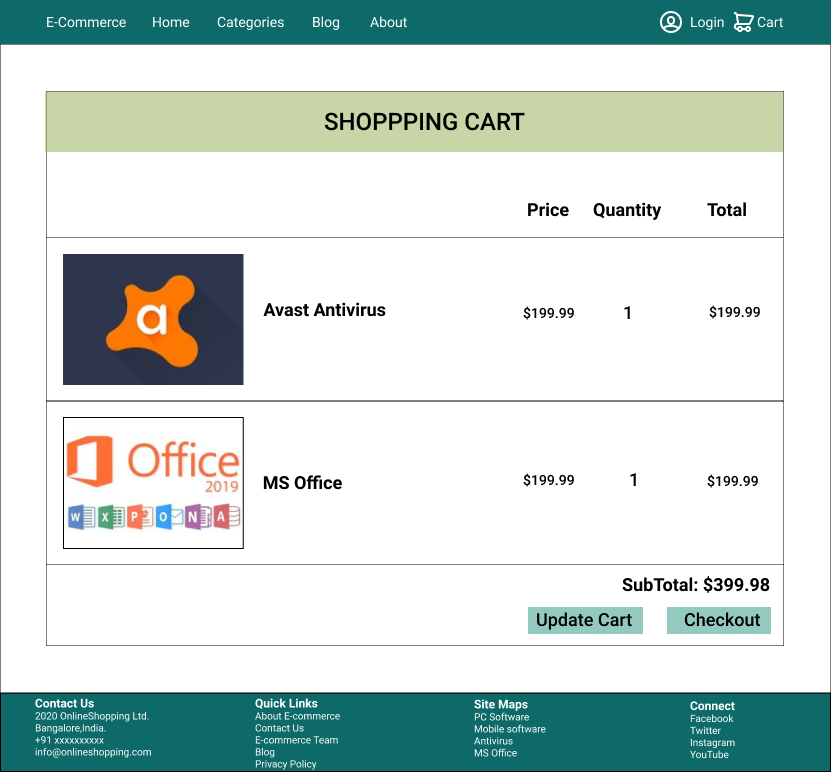
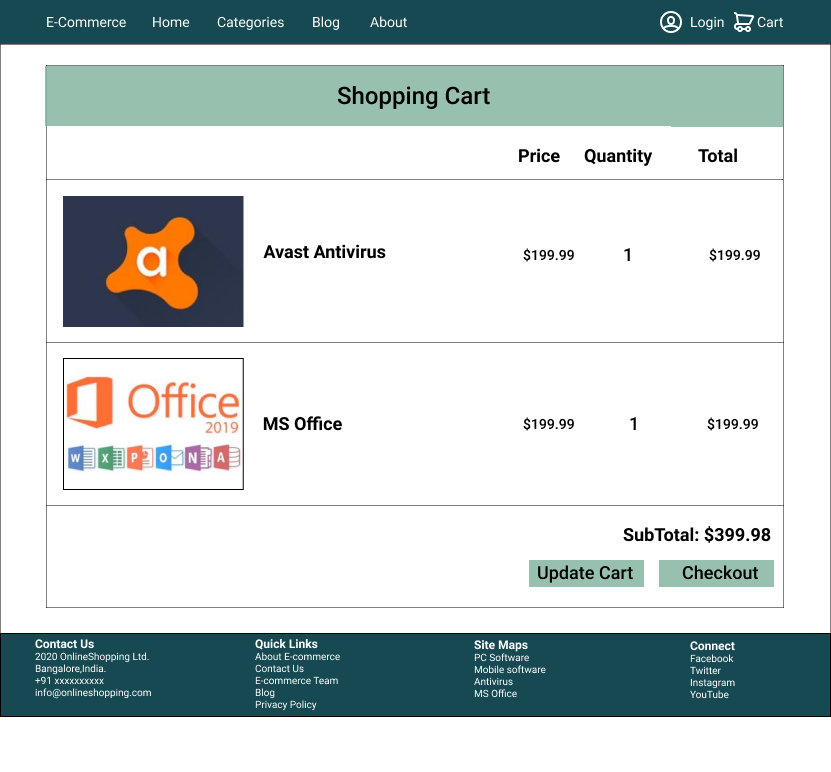
styles modified for homePage and layouts has been added

diff --git a/style/style.css b/style/style.css
@@ -1,8 +1,7 @@
 :root { /* root says this variable is globally valid for all*/
-    --headerFooterColor: #0E6969; /* "--var_name : value" is format for declaring the CSS variable*/
-    --jumbatronColor :  #b8d62a63; /*rgba(184, 143, 64, 0.42);*/
-    --elementsColor: #b5e1e7be;
-    --buttonColor: rgba(144, 135, 85, 0.42);
+    --headerFooterColor: #164951; /* "--var_name : value" is format for declaring the CSS variable*/
+    --elementsColor: #c7dee0bd;
+    --buttonColor: #86b5a185; /* rgba(144, 135, 85, 0.42);*/
   }
 
 
@@ -11,7 +10,7 @@ body { /* this css is applicable for whole body */
     line-height: 1.8; 
 }
 
-.customPageHeaderFooter {
+.customPageHeaderFooter { /* Contains properties common for header and footer */
     background-color: var(--headerFooterColor); /* old color #760f27;*/
     font-family: Montserrat, sans-serif; 
     font-size: 14px;
@@ -34,10 +33,9 @@ li>a:hover
     color: white !important;
 }
 
-.jumbotron{
-    /*background-color: #009e73;*/
-    background-color: var(--jumbatronColor) ;
-    font-family: Montserrat, sans-serif;        
+.jumbotron{   
+    font-family: Montserrat, sans-serif;   
+    background-image: linear-gradient(-4deg, rgba(195, 227, 124, 0.99), rgba(86, 138, 127, 0.49));   
 } 
 
 #inputSearch::placeholder {
@@ -73,21 +71,22 @@ li>a:hover
 }
 
 .moreDetails:hover{
-    background-color: white;
+    background-color: #b9d1c685;
     color:black;
 }
 
 .cart:hover{
-   background-color: var(--buttonColor);
+   background-color: #b9d1c685;
    color:black;
 }
 
 .cart{
-    background-color: white;
-    font-size: 14px !important;
+    background-color: var(--buttonColor);
+    color:black;
+    font-size: 13px !important;
 }
 
-section>a{
+section>a, section>u, section>span, section>i{
     color: white !important;  
 }
 

diff --git a/homePage.html b/homePage.html
@@ -124,7 +124,7 @@
                 <div class="card h-100 shadow">
                     <img src="images/ms-office.png" class="card-img-top" alt="MS Office 2016">
                     <div class="card-body">
-                        <h5 class="card-title">MS Office(v2)</h5>
+                        <h5 class="card-title">MS Office</h5>
                         <p class="card-text">MS Office provides you with the bundles of Word, Excel, Powerpoint...
                         </p>
                         <div class="row">
@@ -207,7 +207,7 @@
                 <div class="card h-100 shadow">
                     <img src="images/adobe-xd.png" class="card-img-top" alt="AdobeXd">
                     <div class="card-body">
-                        <h5 class="card-title">Adobe XD(v2)</h5>
+                        <h5 class="card-title">Adobe XD</h5>
                         <p>Adobe XD is a design tool for web apps and mobile apps</p>
                         <div class="row">
                             <div class="col-6">
@@ -247,7 +247,7 @@
         </div>
     </div>
 
-    <div class="container-fluid pt-5 customPageHeaderFooter text-light">
+    <div class="container-fluid pt-3 customPageHeaderFooter text-light">
         <div class="row">
             <div class="col-md-3 mb-3">
                 <section class="ml-5 mr-3">

diff --git a/ColorCombo/bgImg_LightHeaderFooter2/style/style.css b/ColorCombo/bgImg_LightHeaderFooter2/style/style.css
@@ -1,6 +1,6 @@
 :root { /* root says this variable is globally valid for all*/
     --headerFooterColor: #164951; /* "--var_name : value" is format for declaring the CSS variable*/
-    --elementsColor: #aad3d7bd;
+    --elementsColor: #c7dee0bd;
     --buttonColor: #86b5a185; /* rgba(144, 135, 85, 0.42);*/
   }
 
@@ -71,19 +71,19 @@ li>a:hover
 }
 
 .moreDetails:hover{
-    background-color: white;
+    background-color: #b9d1c685;
     color:black;
 }
 
 .cart:hover{
-   background-color: var(--buttonColor);
+   background-color: #b9d1c685;
    color:black;
 }
 
 .cart{
-    background-color: white;
+    background-color: var(--buttonColor);
     color:black;
-    font-size: 14px !important;
+    font-size: 13px !important;
 }
 
 section>a, section>u, section>span, section>i{

diff --git a/ColorCombo/bgImg_LightHeaderFooter2/homePage.html b/ColorCombo/bgImg_LightHeaderFooter2/homePage.html
@@ -247,8 +247,7 @@
         </div>
     </div>
 
-    <div class="container-fluid pt-1 customPageHeaderFooter text-light">
-        <hr>
+    <div class="container-fluid pt-3 customPageHeaderFooter text-light">
         <div class="row">
             <div class="col-md-3 mb-3">
                 <section class="ml-5 mr-3">
